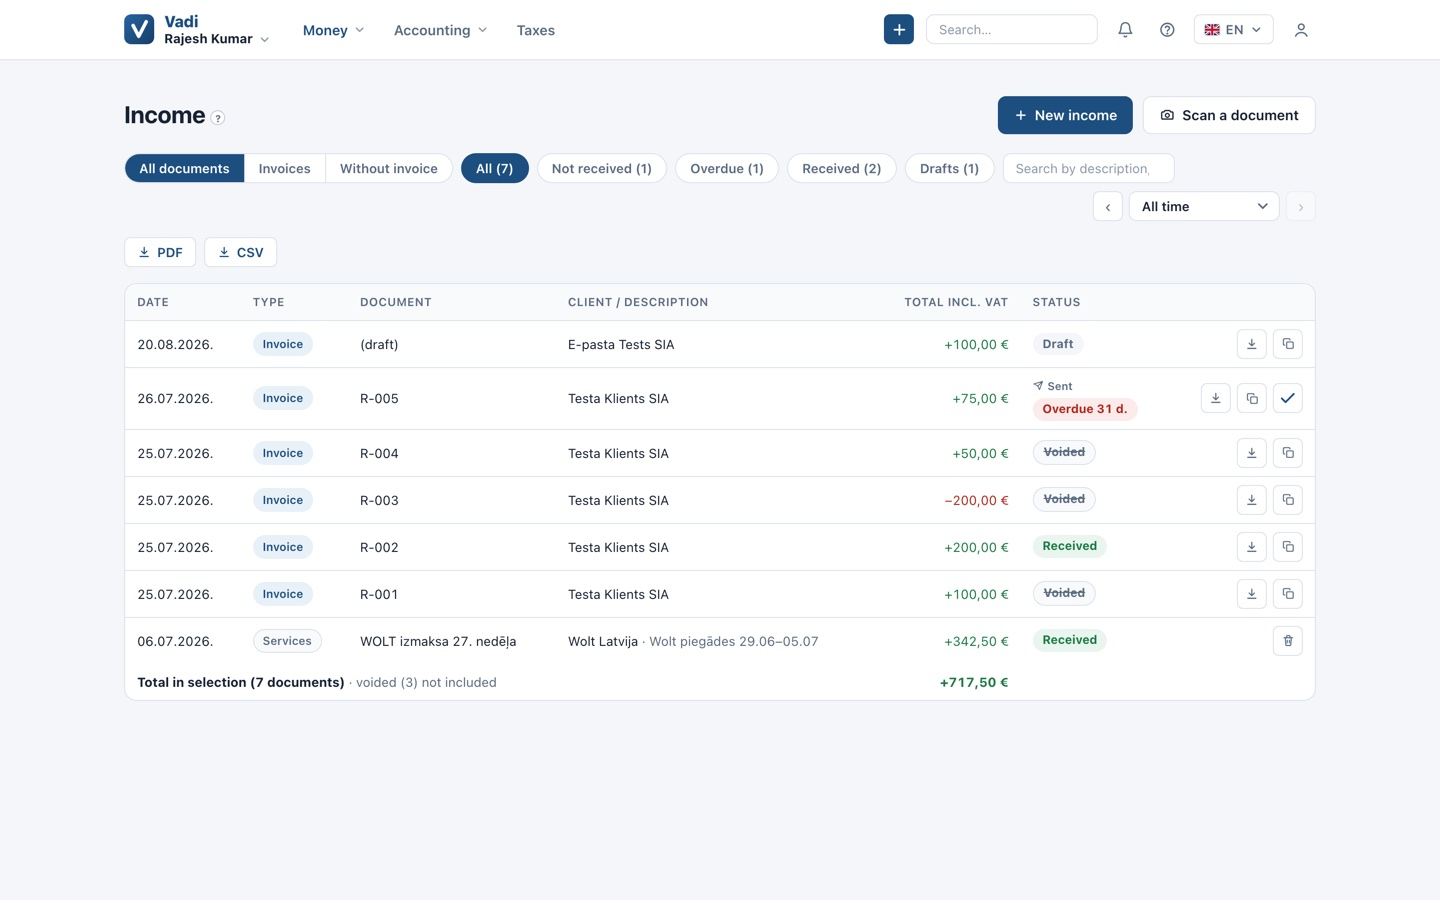
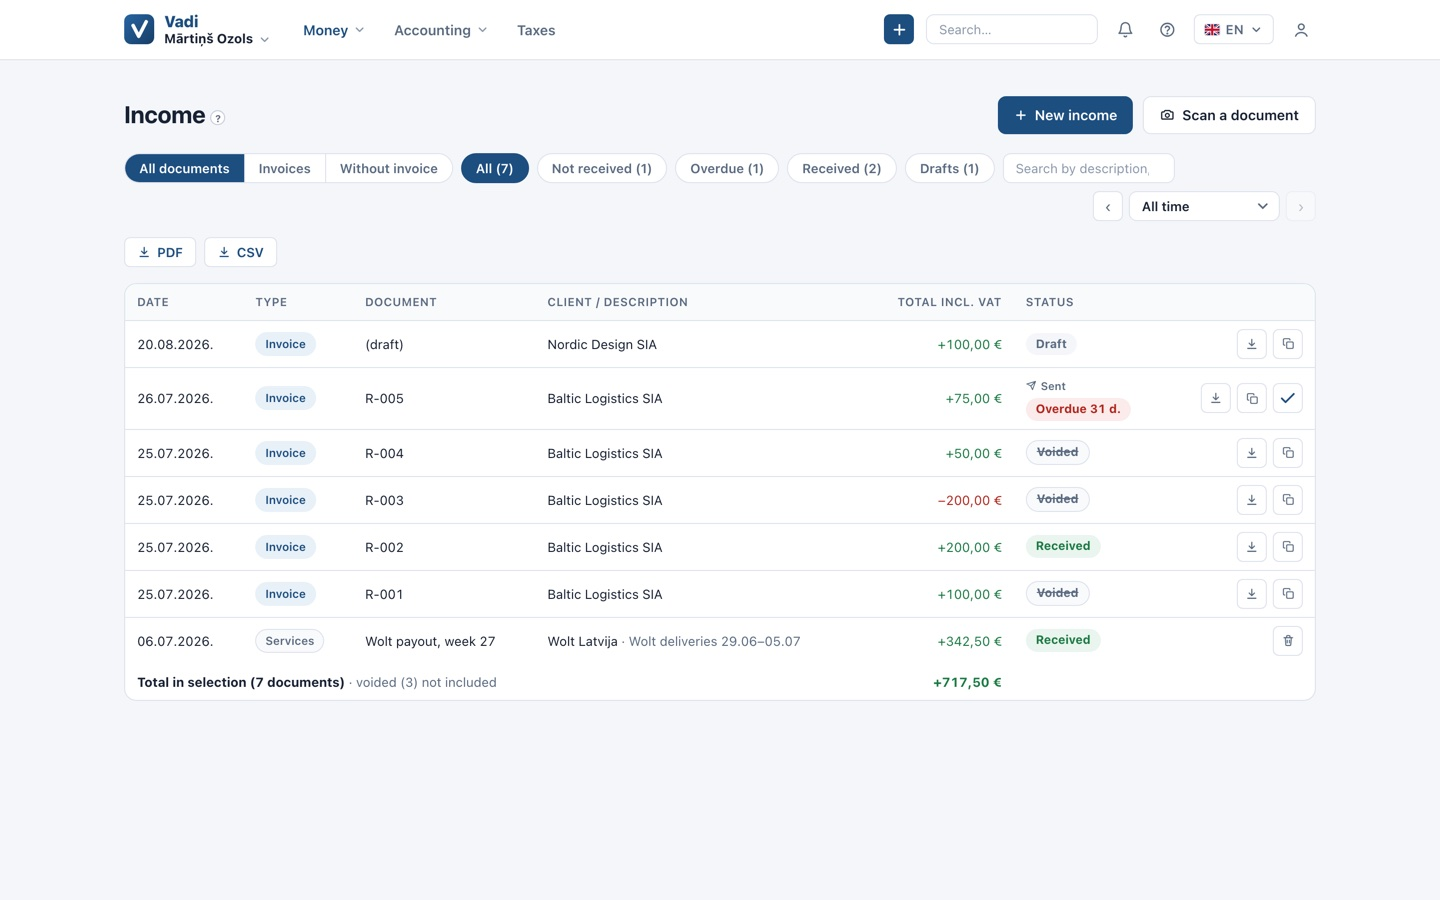
Vadi screens re-shot with a neutral demo person and client names
The demo org's "Rajesh Kumar" and the "Testa Klients" / "E-pasta Tests"
counterparties read as test data; the captures now show Mārtiņš Ozols with
Baltic Logistics and Nordic Design (renamed in the DOM at capture time —
staging data untouched). Cover, hero, spotlight, gallery and OG regenerated;
project asset URLs bumped to ?v=4 so cached copies refresh.

diff --git a/src/data/projects.ts b/src/data/projects.ts
@@ -81,12 +81,12 @@ export const projects: Project[] = [
       channel that feeds the trial, while accountants get a shared workspace for
       the clients they manage.
     `,
-    image: '/projects/covers/vadi.webp?v=3',
+    image: '/projects/covers/vadi.webp?v=4',
     images: [
-      '/projects/screenshots/vadi-dashboard.jpg',
-      '/projects/screenshots/vadi-finances.jpg',
-      '/projects/screenshots/vadi-income.jpg',
-      '/projects/screenshots/vadi-tax-calendar.jpg',
+      '/projects/screenshots/vadi-dashboard.jpg?v=4',
+      '/projects/screenshots/vadi-finances.jpg?v=4',
+      '/projects/screenshots/vadi-income.jpg?v=4',
+      '/projects/screenshots/vadi-tax-calendar.jpg?v=4',
     ],
     logo: '/projects/logos/vadi.svg',
     link: 'https://vadi.lv/',
@@ -138,7 +138,7 @@ export const projects: Project[] = [
       sign-in. That is the MVP roadmap, and the client can now scope it against
       something that runs.
     `,
-    image: '/projects/covers/payment-gateway.webp?v=3',
+    image: '/projects/covers/payment-gateway.webp?v=4',
     logo: '/projects/logos/payment-gateway.svg',
     images: [
       '/projects/screenshots/gateway/dashboard.jpg',
@@ -181,7 +181,7 @@ export const projects: Project[] = [
       lighting, particle systems, adaptive rendering budgets and synthesised
       audio without a single asset download.
     `,
-    image: '/projects/covers/liquid-silk.webp?v=3',
+    image: '/projects/covers/liquid-silk.webp?v=4',
     images: [
       '/projects/screenshots/liquid-silk/scene-01.jpg',
       '/projects/screenshots/liquid-silk/scene-02.jpg',
@@ -229,7 +229,7 @@ export const projects: Project[] = [
       recurring invoices go out without anyone remembering, and every client
       document comes from a template rather than a copied file.
     `,
-    image: '/projects/covers/agency-crm.webp?v=3',
+    image: '/projects/covers/agency-crm.webp?v=4',
     images: [
       '/projects/screenshots/crm/dashboard.jpg',
       '/projects/screenshots/crm/leads-board.jpg',
@@ -264,7 +264,7 @@ export const projects: Project[] = [
       confidence, energy and harmony — giving clients a seamless experience
       from discovery to booking, while keeping content secure and easy to manage.
     `,
-    image: '/projects/covers/bodybar.webp?v=3',
+    image: '/projects/covers/bodybar.webp?v=4',
     images: [
       '/projects/screenshots/bodybar.jpg',
       '/projects/screenshots/bodybar-2.jpg',
@@ -303,7 +303,7 @@ export const projects: Project[] = [
       thousands of products — with the client managing every collection
       themselves.
     `,
-    image: '/projects/covers/lepicur.webp?v=3',
+    image: '/projects/covers/lepicur.webp?v=4',
     images: [
       '/projects/screenshots/lepicur.jpg',
       '/projects/screenshots/lepicur-2.jpg',
@@ -345,7 +345,7 @@ export const projects: Project[] = [
       without email back-and-forth, while the school controls every text and
       price itself.
     `,
-    image: '/projects/covers/institut-de-francais-nice.webp?v=3',
+    image: '/projects/covers/institut-de-francais-nice.webp?v=4',
     images: [
       '/projects/screenshots/institut.jpg',
       '/projects/screenshots/institut-de-francais-nice-2.jpg',
@@ -390,7 +390,7 @@ export const projects: Project[] = [
       apply — without a single email — in any of six languages. It also became
       the launch pad for the school's second campus in Nice.
     `,
-    image: '/projects/covers/institut-de-francais-villefranche.webp?v=3',
+    image: '/projects/covers/institut-de-francais-villefranche.webp?v=4',
     images: [
       '/projects/screenshots/institut-villefranche.jpg',
       '/projects/screenshots/institut-villefranche-3.jpg',
@@ -427,7 +427,7 @@ export const projects: Project[] = [
       track record and technical capabilities, attracting partnerships and showcasing
       the breadth of game development expertise.
     `,
-    image: '/projects/covers/madsword-studios.webp?v=3',
+    image: '/projects/covers/madsword-studios.webp?v=4',
     images: [
       '/projects/screenshots/madsword.jpg',
       '/projects/screenshots/madsword-studios-2.jpg',
@@ -466,7 +466,7 @@ export const projects: Project[] = [
       expertise and commitment to client security, building trust through transparency
       and demonstrating the comprehensive approach to information security protection.
     `,
-    image: '/projects/covers/sensora.webp?v=3',
+    image: '/projects/covers/sensora.webp?v=4',
     images: [
       '/projects/screenshots/sensora.jpg',
       '/projects/screenshots/sensora-2.jpg',
@@ -498,7 +498,7 @@ export const projects: Project[] = [
       A credible and informative platform that effectively communicates Imun's
       fintech capabilities and builds confidence with enterprise clients.
     `,
-    image: '/projects/covers/imun.webp?v=3',
+    image: '/projects/covers/imun.webp?v=4',
     images: [
       '/projects/screenshots/imun.jpg',
       '/projects/screenshots/imun-2.jpg',
@@ -530,7 +530,7 @@ export const projects: Project[] = [
       A scalable online store that makes browsing a large catalogue intuitive
       and efficient.
     `,
-    image: '/projects/covers/ma-sunglasses.webp?v=3',
+    image: '/projects/covers/ma-sunglasses.webp?v=4',
     images: [
       '/projects/screenshots/masunglasses.jpg',
     ],
@@ -558,7 +558,7 @@ export const projects: Project[] = [
       A visually engaging catalogue that highlights products without
       distracting from content.
     `,
-    image: '/projects/covers/sunachates.webp?v=3',
+    image: '/projects/covers/sunachates.webp?v=4',
     images: [
       '/projects/screenshots/sunachates.jpg',
     ],
@@ -592,7 +592,7 @@ export const projects: Project[] = [
       favourites, points and delivery clarity they expect from much bigger
       stores.
     `,
-    image: '/projects/covers/pets-pro.webp?v=3',
+    image: '/projects/covers/pets-pro.webp?v=4',
     images: [
       '/projects/screenshots/pets-pro.jpg',
       '/projects/screenshots/pets-pro-2.jpg',
@@ -623,7 +623,7 @@ export const projects: Project[] = [
     result: `
       A dynamic yet controlled layout suitable for frequently changing content.
     `,
-    image: '/projects/covers/on-air-emotions.webp?v=3',
+    image: '/projects/covers/on-air-emotions.webp?v=4',
     images: [
       '/projects/screenshots/onairemotions.jpg',
     ],
@@ -662,7 +662,7 @@ export const projects: Project[] = [
       consumable in a couple of clicks, and where the distributor can expand the
       range across markets without touching the design or calling us.
     `,
-    image: '/projects/covers/goldberg.webp?v=3',
+    image: '/projects/covers/goldberg.webp?v=4',
     images: [
       '/projects/screenshots/goldberg.jpg',
       '/projects/screenshots/goldberg-2.jpg',
@@ -694,7 +694,7 @@ export const projects: Project[] = [
       A sophisticated website that captures the essence of classic barbering
       while providing a seamless booking experience for clients.
     `,
-    image: '/projects/covers/barberly.webp?v=3',
+    image: '/projects/covers/barberly.webp?v=4',
     images: [
       '/projects/screenshots/barberly.jpg',
     ],
@@ -718,7 +718,7 @@ export const projects: Project[] = [
     result: `
       A practical catalogue that supports both marketing and sales use cases.
     `,
-    image: '/projects/covers/finnex.webp?v=3',
+    image: '/projects/covers/finnex.webp?v=4',
     images: [
       '/projects/screenshots/finnex.jpg',
     ],
@@ -754,7 +754,7 @@ export const projects: Project[] = [
       a listing, and install it like an app — all from a browser, in either
       language.
     `,
-    image: '/projects/covers/euc-one.webp?v=3',
+    image: '/projects/covers/euc-one.webp?v=4',
     images: [
       '/projects/screenshots/euc-one.jpg',
       '/projects/screenshots/euc-one-2.jpg',
@@ -794,7 +794,7 @@ export const projects: Project[] = [
       rather than hidden — and it lives inside the EUC.ONE app, where the
       decision gets made.
     `,
-    image: '/projects/covers/euc-calculator.webp?v=3',
+    image: '/projects/covers/euc-calculator.webp?v=4',
     images: [
       '/projects/screenshots/euc-calculator.jpg',
       '/projects/screenshots/euc-calculator-2.jpg',
@@ -828,7 +828,7 @@ export const projects: Project[] = [
       A user-friendly app that makes organizing Secret Santa events effortless,
       allowing users to focus on the fun of gift exchanges rather than logistics.
     `,
-    image: '/projects/covers/gift-roulette.webp?v=3',
+    image: '/projects/covers/gift-roulette.webp?v=4',
     images: [
       '/projects/screenshots/gift-roulette.jpg',
     ],
@@ -862,7 +862,7 @@ export const projects: Project[] = [
       while shop customers browse, pay by card or invoice and pick up on site —
       and the team manages both from one WordPress back office.
     `,
-    image: '/projects/covers/ekobaltika.webp?v=3',
+    image: '/projects/covers/ekobaltika.webp?v=4',
     images: [
       '/projects/screenshots/ekobaltika.jpg',
       '/projects/screenshots/ekobaltika-2.jpg',
@@ -902,7 +902,7 @@ export const projects: Project[] = [
       Everything is built for the mobile shopper who decides on the water, not
       at a desk.
     `,
-    image: '/projects/covers/bullu-laivas.webp?v=3',
+    image: '/projects/covers/bullu-laivas.webp?v=4',
     images: [
       '/projects/screenshots/bullulaivas.jpg',
       '/projects/screenshots/bullu-laivas-2.jpg',
@@ -946,7 +946,7 @@ export const projects: Project[] = [
       comprehensive capabilities and international reach, building trust with
       clients seeking complex financial and corporate services.
     `,
-    image: '/projects/covers/offshore-license.webp?v=3',
+    image: '/projects/covers/offshore-license.webp?v=4',
     images: [
       '/projects/screenshots/offshorelicense.jpg',
       '/projects/screenshots/offshore-license-2.jpg',
@@ -984,7 +984,7 @@ export const projects: Project[] = [
       gifts or for personal use, while maintaining the luxurious Wellton brand
       identity.
     `,
-    image: '/projects/covers/wellton.webp?v=3',
+    image: '/projects/covers/wellton.webp?v=4',
     images: [
       '/projects/screenshots/wellton.jpg',
       '/projects/screenshots/wellton2.png',
@@ -1023,7 +1023,7 @@ export const projects: Project[] = [
       reliability, generating qualified leads through free quote requests while
       building confidence in the installation process.
     `,
-    image: '/projects/covers/window-pros.webp?v=3',
+    image: '/projects/covers/window-pros.webp?v=4',
     images: [
       '/projects/screenshots/windowspros.jpg',
       '/projects/screenshots/window-pros-2.jpg',
@@ -1057,7 +1057,7 @@ export const projects: Project[] = [
       professional drone operators and clients, making exceptional aerial
       photography and videography services easily accessible. (Still in development.)
     `,
-    image: '/projects/covers/aerial-platform.webp?v=3',
+    image: '/projects/covers/aerial-platform.webp?v=4',
     images: [
       '/projects/screenshots/aerial.jpg',
     ],
@@ -1092,7 +1092,7 @@ export const projects: Project[] = [
       their structured approach and international experience to attract
       discerning clients seeking quality transformations.
     `,
-    image: '/projects/covers/senso-projects.webp?v=3',
+    image: '/projects/covers/senso-projects.webp?v=4',
     images: [
       '/projects/screenshots/sensoprojects.jpg',
       '/projects/screenshots/senso-projects-2.jpg',
@@ -1125,7 +1125,7 @@ export const projects: Project[] = [
       devices when online, stays available when offline, and belongs to you.
       Train smarter, track progress, and stay motivated — completely free.
     `,
-    image: '/projects/covers/reppy.webp?v=3',
+    image: '/projects/covers/reppy.webp?v=4',
     images: [
       '/projects/screenshots/reppy/workout-list.jpg',
       '/projects/screenshots/reppy/workout-detail.jpg',
@@ -1161,7 +1161,7 @@ export const projects: Project[] = [
       market authority and makes it simple for customers across Latvia to
       explore solutions and request service.
     `,
-    image: '/projects/covers/balticaqua.webp?v=3',
+    image: '/projects/covers/balticaqua.webp?v=4',
     images: [
       '/projects/screenshots/balticaqua.jpg',
       '/projects/screenshots/balticaqua-2.jpg',

diff --git a/src/components/hero.tsx b/src/components/hero.tsx
@@ -17,19 +17,19 @@ import ClientLogos from './client-logos';
 
 const WINDOWS = [
   {
-    src: '/projects/covers/payment-gateway.webp?v=3',
+    src: '/projects/covers/payment-gateway.webp?v=4',
     alt: 'Payment gateway operator console',
     className: 'left-0 top-0 w-[74%] -rotate-[4deg] opacity-90',
     delay: '0s',
   },
   {
-    src: '/projects/covers/agency-crm.webp?v=3',
+    src: '/projects/covers/agency-crm.webp?v=4',
     alt: 'Web studio CRM dashboard',
     className: 'right-0 top-[14%] w-[74%] rotate-[3deg] opacity-95',
     delay: '-2.5s',
   },
   {
-    src: '/projects/covers/vadi.webp?v=3',
+    src: '/projects/covers/vadi.webp?v=4',
     alt: 'Vadi accounting platform',
     className: 'left-[6%] bottom-0 w-[80%]',
     delay: '-5s',

diff --git a/src/components/spotlight.tsx b/src/components/spotlight.tsx
@@ -29,7 +29,7 @@ export default function Spotlight() {
             aria-label="Vadi case study"
           >
             <Image
-              src="/projects/spotlight/vadi-dashboard.jpg"
+              src="/projects/spotlight/vadi-overview.jpg"
               alt="Vadi dashboard — July overview with income, expenses, result and the tax calendar"
               width={1440}
               height={900}

diff --git a/next.config.ts b/next.config.ts
@@ -6,7 +6,7 @@ const nextConfig: NextConfig = {
     // cache-busting version — Next only allows that when it is listed here.
     localPatterns: [
       { pathname: '/**', search: '' },
-      { pathname: '/projects/covers/**', search: '?v=3' },
+      { pathname: '/projects/**', search: '?v=4' },
     ],
   },
   // Canonical host is www; the apex answered 200 with the same content.
